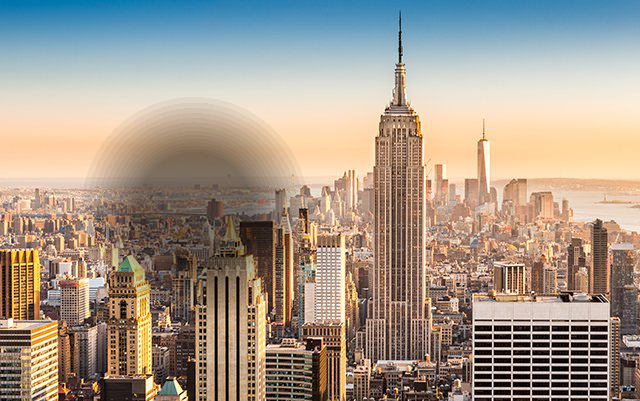
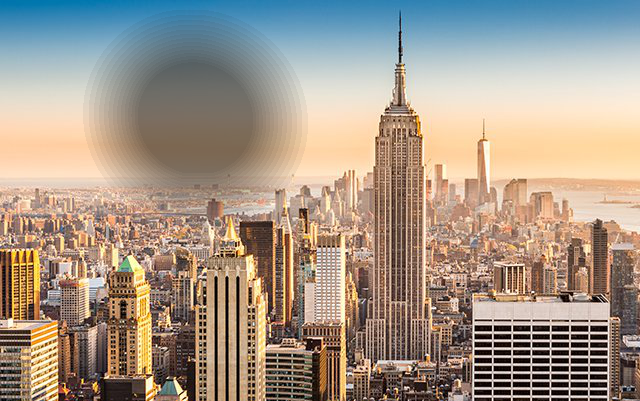
modified:   background_filter.png 	modified:   dbexpos_image.png 	modified:   plot.png 	modified:   visualize.py

Changed region(s): [[0.125, 0.419, 0.4688, 0.7781], [0.125, 0.0299, 0.4688, 0.389]]

diff --git a/visualize.py b/visualize.py
@@ -173,11 +173,11 @@ def display_instances(image, background, i, boxes, masks, class_ids, class_names
     x_product = b[1]/60
     min_x ,min_y,max_x,max_y = bboxes[:4]
     Leye_x = np.floor(y_pred[6]*x_product+min_x)
-    Leye_y = np.floor(y_pred[7]*y_product+min_y)
+    Leye_y = np.floor((96-y_pred[7])*y_product+min_y)
     nose_x = np.ceil(y_pred[20]*x_product+min_x)
-    nose_y = np.ceil(y_pred[21]*y_product+min_y)
+    nose_y = np.ceil((96-y_pred[21])*y_product+min_y)
     mouse_x = np.ceil(y_pred[26]*x_product+min_x)
-    mouse_y = np.ceil(y_pred[27]*y_product+min_y)
+    mouse_y = np.ceil((96-y_pred[27])*y_product+min_y)
     print("face",Leye_x,Leye_y,nose_x,nose_y,mouse_x,mouse_y)
     #print(Leye_x,Leye_y,nose_x,nose_y,masked_image.shape[0],masked_image.shape[1])
 
@@ -216,7 +216,7 @@ def nosefilter(img,Leye_x,Leye_y,nose_x,nose_y,mouse_x,mouse_y):
         #nose_y = y_pred[0][21]
         c = np.sqrt((mouse_x - nose_x)**2+(mouse_y-nose_y)**2)
         a = abs(mouse_x - nose_x)
-        b = mouse_y - nose_y
+        b = abs(mouse_y - nose_y)
         cosine_sita = b/c
         sine_sita = a/c
         center_x = float(nose_x)
